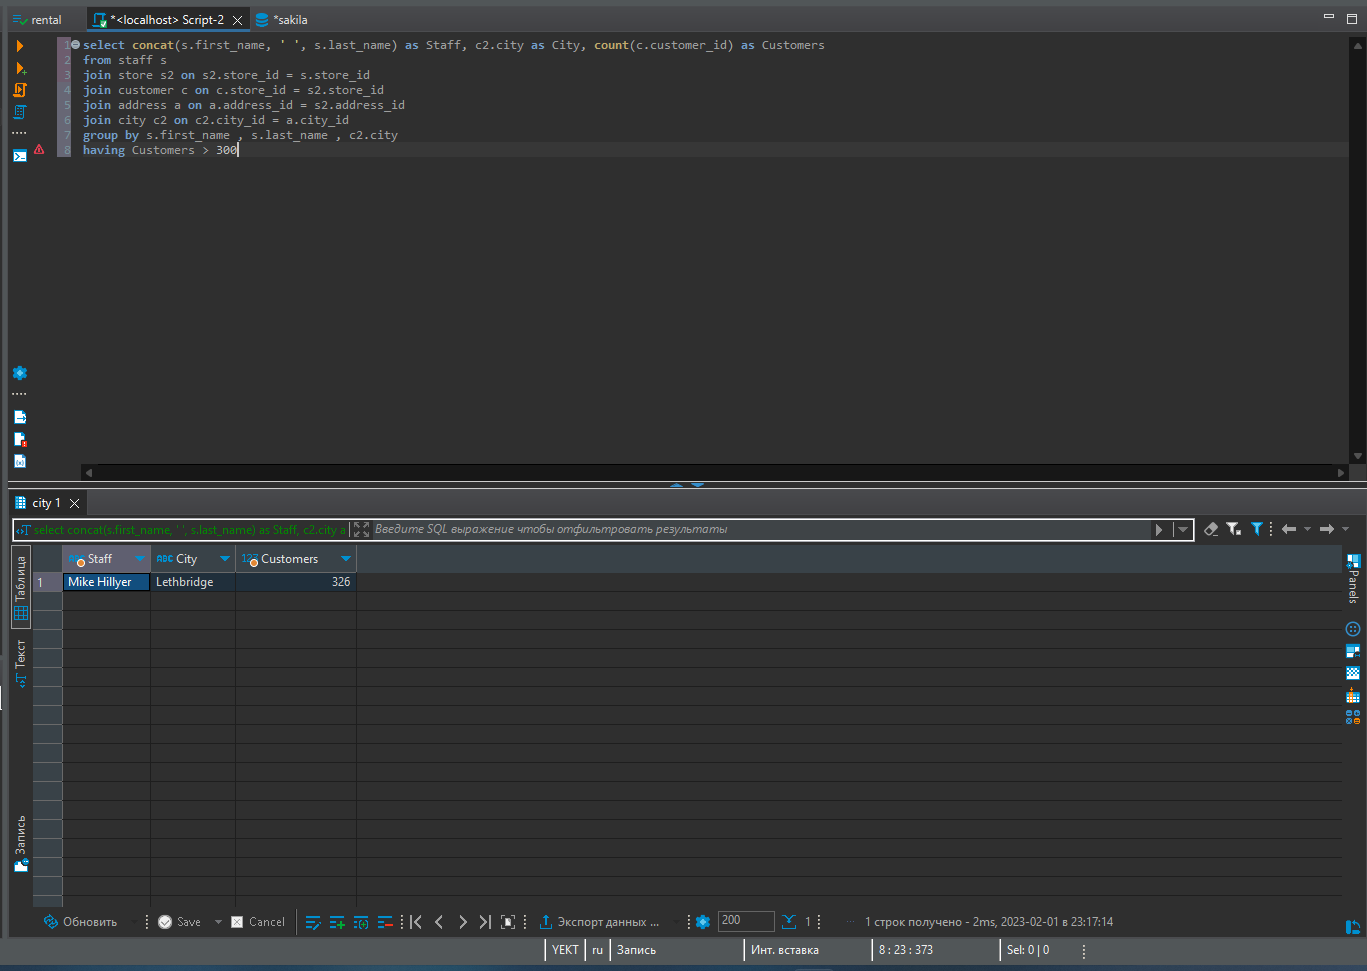
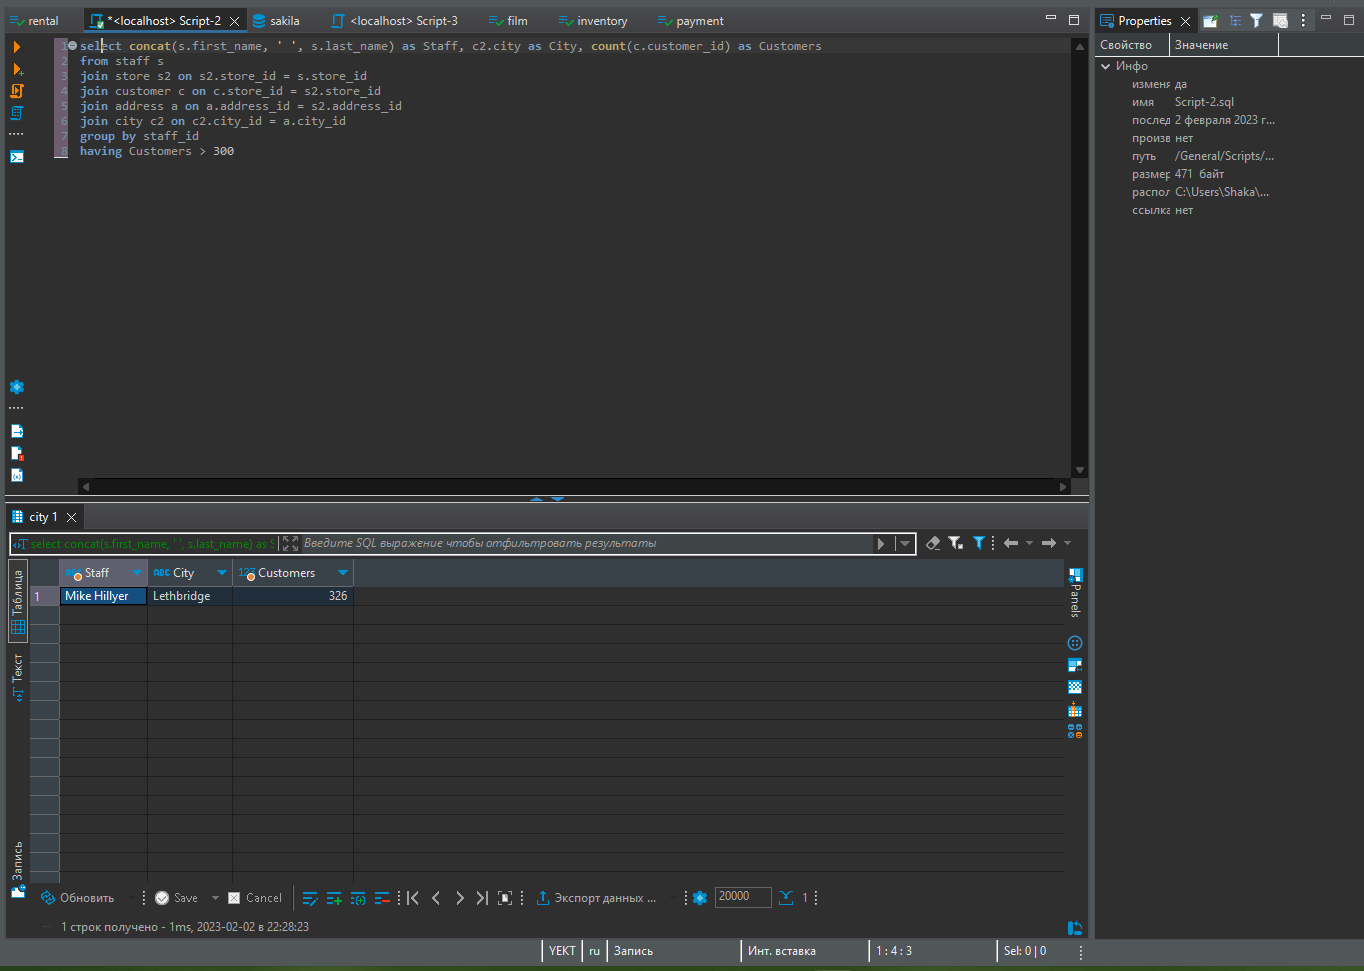
Задание 1-5 Доработанное

diff --git a/README.md b/README.md
@@ -15,7 +15,7 @@ join store s2 on s2.store_id = s.store_id
 join customer c on c.store_id = s2.store_id 
 join address a on a.address_id = s2.address_id 
 join city c2 on c2.city_id = a.city_id 
-group by s.first_name , s.last_name , c2.city 
+group by staff_id  
 having Customers > 300
 ```
 
@@ -46,9 +46,9 @@ from film f
 
 
 ```
-select month(p.payment_date) as Month , sum(p.amount) as Amount , count(p.amount) as 'Rental count'
+select date_format(p.payment_date, '%m.%Y') as Month , sum(p.amount) as Amount , count(p.amount) as 'Rental count'
 from payment p 
-group by month(p.payment_date)
+group by Month
 order by Amount desc 
 limit 1;
 ```
@@ -64,12 +64,11 @@ limit 1;
 ### Задание 4*
 
 ```
-select concat(s.first_name , ' ' , s.last_name) as Name , count(p.payment_id) as Payments ,
+select concat(s.first_name , ' ' , s.last_name) as Name , count(p.payment_id) as 'Кол-во продаж' ,
 case
 	when count(p.amount) > 8000 then 'Да'
 	when count(p.amount) <= 8000 then 'Нет'
-end as Премия, 
-sum(p.amount) as Total
+end as Премия 
 from payment p
 join staff s on s.staff_id = p.staff_id 
 where p.amount  > 0
@@ -83,29 +82,13 @@ group by Name;
 
 ### Задание 5*
 
-`В базе данных все фильмы брали в аренду хотя бы 2 раза, запрос попытался 
-написать с учетом, что появится фильм, который возьмут в аренду только 1 раз, 
-тогда запрос в разделе with покажет лишний фильм.`
-
-`Просьба пояснить, верная мысль или нет?`
 
 
 ```
-with 
-take as (
-select count(f.title) as Number, f.film_id as id 
+select f.title, i.inventory_id  
 from film f 
 left join inventory i on i.film_id = f.film_id 
-left join rental r  on r.inventory_id = i.inventory_id
-group by f.film_id  
-having  Number = 1)
-
-SELECT f.title, r.rental_id 
-FROM film f
-LEFT JOIN inventory i ON i.film_id = f.film_id
-LEFT JOIN rental r ON r.inventory_id = i.inventory_id
-right join take t on t.id = f.film_id 
-WHERE t.Number = 1 and r.rental_id is null; 
+where i.inventory_id is null; 
 ```
 
 ![task_5.png](img%2Ftask_5.png)
